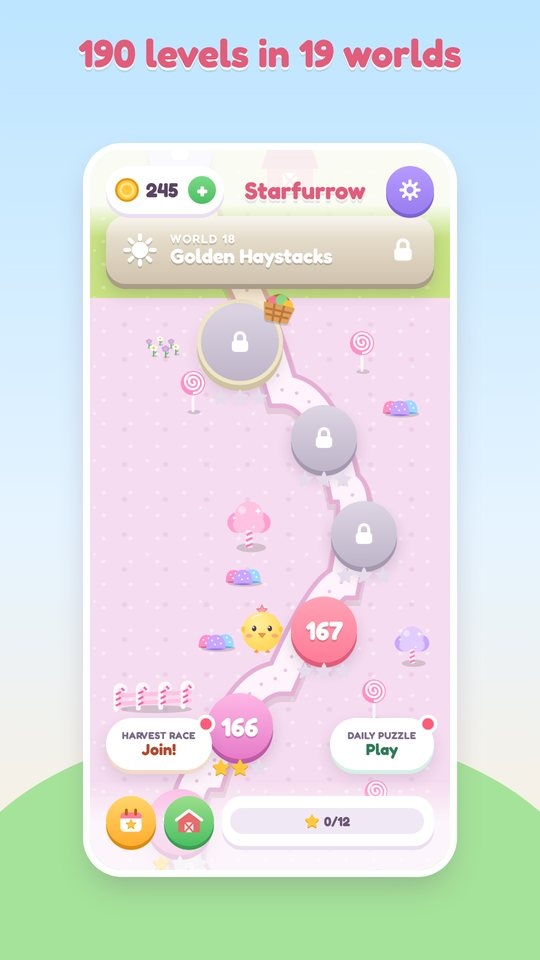
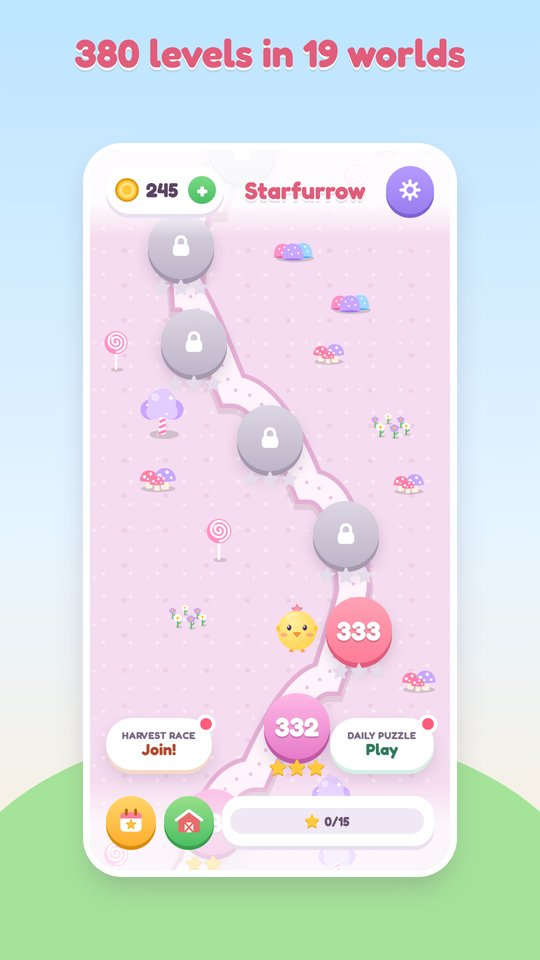
Starfurrow: 380 levels in 19 worlds (worlds now have 20 levels)
Claude-Session: https://claude.ai/code/session_01S1vzQxL1yGUYwtoxYJWhmN

diff --git a/starfurrow/index.html b/starfurrow/index.html
@@ -4,12 +4,12 @@
 <meta charset="utf-8">
 <meta name="viewport" content="width=device-width, initial-scale=1">
 <title>Starfurrow: Farm Link Puzzle for Android</title>
-<meta name="description" content="A cozy line-link puzzle on a farm. Link three or more farm friends across 190 levels in 19 worlds, from Spring Meadow to a candy fairy land and a moonlit firefly forest, with Pip the chick. Free, no account needed.">
+<meta name="description" content="A cozy line-link puzzle on a farm. Link three or more farm friends across 380 levels in 19 worlds, from Spring Meadow to a candy fairy land and a moonlit firefly forest, with Pip the chick. Free, no account needed.">
 <meta name="theme-color" content="#CDEBFF">
 <link rel="canonical" href="https://causalityviolation.github.io/starfurrow/">
 <meta property="og:type" content="website">
 <meta property="og:title" content="Starfurrow: Farm Link Puzzle">
-<meta property="og:description" content="Link the friends, grow the farm. 190 levels in 19 cozy worlds. A puzzle game for Android.">
+<meta property="og:description" content="Link the friends, grow the farm. 380 levels in 19 cozy worlds. A puzzle game for Android.">
 <meta property="og:url" content="https://causalityviolation.github.io/starfurrow/">
 <meta property="og:image" content="https://causalityviolation.github.io/starfurrow/assets/og.jpg">
 <meta name="twitter:card" content="summary_large_image">
@@ -36,7 +36,7 @@
       <p class="eyebrow">A cozy puzzle game for Android</p>
       <h1>Starfurrow</h1>
       <p class="tagline">Link the friends, grow the farm.</p>
-      <p class="lead">Drag a line through three or more farm friends of the same kind to harvest them. Travel through 190 levels in 19 worlds, from the seasons of the farm to Sugarplum Glade and Firefly Forest, and grow Pip's farm with every star you earn.</p>
+      <p class="lead">Drag a line through three or more farm friends of the same kind to harvest them. Travel through 380 levels in 19 worlds, from the seasons of the farm to Sugarplum Glade and Firefly Forest, and grow Pip's farm with every star you earn.</p>
       <div class="cta">
         <span class="btn off">Coming soon to Google Play</span>
       </div>
@@ -60,7 +60,7 @@
     <h2 class="sec">How it plays</h2>
     <div class="cards feat">
       <article class="card"><div class="ct"><span class="it"><img src="assets/ic-link.png" width="56" height="56" alt=""></span><h3>Link three or more</h3></div><p>Drag through tomatoes, carrots, corn, sprouts and plums of the same kind, up, down and sideways. The longer the link, the bigger the harvest.</p></article>
-      <article class="card"><div class="ct"><span class="it"><img src="assets/ic-seasons.png" width="56" height="56" alt=""></span><h3>190 levels in 19 worlds</h3></div><p>Follow the path from Spring Meadow through summer, autumn and winter to Starlight Village, then on to Sugarplum Glade and Firefly Forest.</p></article>
+      <article class="card"><div class="ct"><span class="it"><img src="assets/ic-seasons.png" width="56" height="56" alt=""></span><h3>380 levels in 19 worlds</h3></div><p>Follow the path from Spring Meadow through summer, autumn and winter to Starlight Village, then on to Sugarplum Glade and Firefly Forest.</p></article>
       <article class="card"><div class="ct"><span class="it"><img src="assets/ic-worlds.png" width="56" height="56" alt=""></span><h3>Something new in every world</h3></div><p>Chop weeds, thaw frozen friends, crack eggs, set butterflies free, knock down giant haystacks and let fireflies light up the board.</p></article>
       <article class="card"><div class="ct"><span class="it"><img src="assets/ic-harvest.png" width="56" height="56" alt=""></span><h3>Fill the Harvest meter</h3></div><p>Every link charges the meter. When it is full, tap the board to clear a whole patch at once, for free.</p></article>
       <article class="card"><div class="ct"><span class="it"><img src="assets/ic-farm.png" width="56" height="56" alt=""></span><h3>Grow Pip's farm</h3></div><p>Every star you earn helps the farm grow, from a little veggie patch to a windmill, a hot air balloon and a rainbow. Then a riverside orchard opens up.</p></article>
@@ -75,7 +75,7 @@
     <h2 class="sec">Take a look</h2>
     <ul class="shots" aria-label="Screenshots. Scroll sideways to see more.">
       <li><a href="assets/shots/01-big.jpg?v=3"><img src="assets/shots/01.jpg?v=3" width="200" height="356" loading="lazy" alt="Link cute farm friends"></a></li>
-      <li><a href="assets/shots/02-big.jpg?v=3"><img src="assets/shots/02.jpg?v=3" width="200" height="356" loading="lazy" alt="190 levels in 19 worlds"></a></li>
+      <li><a href="assets/shots/02-big.jpg?v=4"><img src="assets/shots/02.jpg?v=4" width="200" height="356" loading="lazy" alt="380 levels in 19 worlds"></a></li>
       <li><a href="assets/shots/03-big.jpg?v=3"><img src="assets/shots/03.jpg?v=3" width="200" height="356" loading="lazy" alt="Free butterflies in fairy land"></a></li>
       <li><a href="assets/shots/04-big.jpg?v=3"><img src="assets/shots/04.jpg?v=3" width="200" height="356" loading="lazy" alt="Light up the firefly forest"></a></li>
       <li><a href="assets/shots/05-big.jpg?v=3"><img src="assets/shots/05.jpg?v=3" width="200" height="356" loading="lazy" alt="Knock down giant haystacks"></a></li>

diff --git a/index.html b/index.html
@@ -44,7 +44,7 @@
       <div class="art" style="background-image:url(starfurrow/assets/og.jpg?v=2)" role="img" aria-label="Starfurrow artwork"></div>
       <div class="body">
         <img class="ico" src="starfurrow/assets/icon-192.png" width="64" height="64" alt="">
-        <div><h2>Starfurrow</h2><p>A cozy farm puzzle: link three or more farm friends through 190 levels in 19 worlds, from spring to a fairy land and a firefly forest, with Pip the chick.</p><span class="tag soon">Coming soon</span></div>
+        <div><h2>Starfurrow</h2><p>A cozy farm puzzle: link three or more farm friends through 380 levels in 19 worlds, from spring to a fairy land and a firefly forest, with Pip the chick.</p><span class="tag soon">Coming soon</span></div>
       </div>
     </a>
     <a class="game" href="bakery-bounce/">
